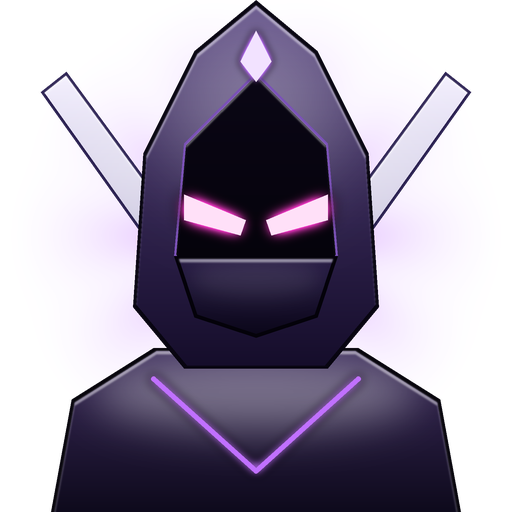
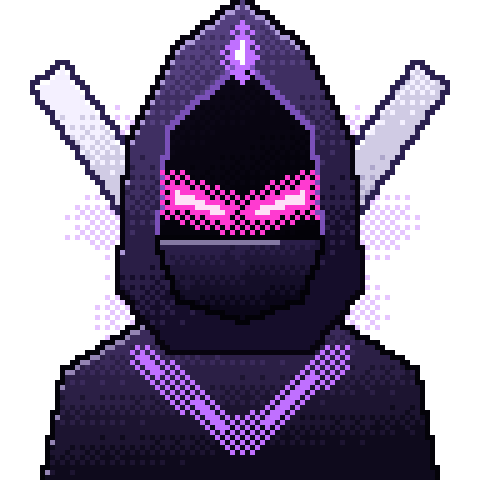
Redraw VS characters as pixel art
Claude-Session: https://claude.ai/code/session_017Aje2AFmWso7fyMwhqMWVA

diff --git a/tools/gen_characters.py b/tools/gen_characters.py
@@ -1,8 +1,8 @@
 #!/usr/bin/env python3
-"""Draws the six VS-mode characters (busts), small portraits and skill icons into assets/chars/.
+"""Draws the six VS-mode characters as 16-bit style pixel art (busts, portraits, skill icons) into assets/chars/.
 
 Run: python3 tools/gen_characters.py   (needs Pillow + numpy; re-run when a design changes).
-Technique: every shape is drawn at 3x on its own layer -> gradient body, dark rim, top bevel, gloss.
+Technique: aliased shapes on a 96px grid, 4-band dithered shading, 1px outline, top highlight, nearest-neighbour 5x.
 """
 import math
 import os
@@ -20,113 +20,104 @@ def hex_rgb(h):
     return _hex(h.lstrip("#"))
 
 OUT = os.path.join(ASSETS, "chars")
-SIZE, SS = 512, 3
-S = SIZE * SS
+W, UP = 96, 5  # drawn on a 96px grid, enlarged 5x with nearest neighbour -> 480px pixel art
+BAYER = np.array([[0, 8, 2, 10], [12, 4, 14, 6], [3, 11, 1, 9], [15, 7, 13, 5]]) / 16.0 - 0.5
+YY, XX = np.mgrid[0:W, 0:W]
+BAYER = np.tile(BAYER, (W // 4, W // 4))
+CHECK = ((XX + YY) % 2 == 0)
+BANDS = 4
 
 
 def mir(pts):
     return [(1 - x, y) for x, y in pts]
 
 
+def col(c):
+    return np.array(hex_rgb(c) if isinstance(c, str) else c, np.uint8)
+
+
 class Canvas:
+    """Pixel-art canvas: aliased shapes, banded + dithered shading, 1px dark outline, 1px top highlight."""
+
     def __init__(self):
-        self.img = Image.new("RGBA", (S, S), (0, 0, 0, 0))
+        self.px = np.zeros((W, W, 4), np.uint8)
 
     def _mask(self, shape):
-        m = Image.new("L", (S, S), 0)
+        m = Image.new("L", (W, W), 0)
         d = ImageDraw.Draw(m)
         if shape[0] == "e":
             x0, y0, x1, y1 = shape[1]
-            d.ellipse((x0 * S, y0 * S, x1 * S, y1 * S), fill=255)
+            d.ellipse((x0 * W, y0 * W, x1 * W - 1, y1 * W - 1), fill=255)
         else:
-            d.polygon([(x * S, y * S) for x, y in shape[1]], fill=255)
+            d.polygon([(x * W, y * W) for x, y in shape[1]], fill=255)
         return m
 
-    def shape(self, shape, top, bottom, rim=None, rim_w=3.0, shine=0.35, alpha=1.0):
-        """Gradient-filled shape with dark rim, top bevel line and a soft gloss."""
-        top, bottom = hex_rgb(top) if isinstance(top, str) else top, hex_rgb(bottom) if isinstance(bottom, str) else bottom
+    @staticmethod
+    def _arr(m):
+        return np.array(m) > 127
+
+    def _put(self, mask, rgb, alpha=255):
+        self.px[mask] = (*rgb, alpha)
+
+    def shape(self, shape, top, bottom, rim=None, rim_w=0, shine=0.35, alpha=1.0):
+        t0, t1 = col(top), col(bottom)
         m = self._mask(shape)
-        bb = m.getbbox()
-        if not bb:
+        mk = self._arr(m)
+        if not mk.any():
             return
-        x0, y0, x1, y1 = bb
-        h = max(y1 - y0, 1)
-        t = np.clip((np.arange(S)[:, None] - y0) / h, 0, 1)
-        t = np.broadcast_to(t, (S, S))[..., None]
-        col = np.array(top)[None, None, :] * (1 - t) + np.array(bottom)[None, None, :] * t
-        body = Image.fromarray(col.astype(np.uint8), "RGB").convert("RGBA")
-        rim_c = hex_rgb(rim) if isinstance(rim, str) else (rim or mix(bottom, (0, 0, 0), 0.6))
-        r = int(rim_w * SS)
-        inner = m.filter(ImageFilter.MinFilter(2 * r + 1))
-        layer = Image.new("RGBA", (S, S), rim_c + (255,))
-        layer.paste(body, (0, 0), inner)
-        # top bevel: inner edge lit from above
-        lit = ImageChops.subtract(inner, ImageChops.offset(inner, 0, int(r * 1.2)))
-        lit = lit.filter(ImageFilter.GaussianBlur(SS * 0.8))
-        hi = Image.new("RGBA", (S, S), mix(top, (255, 255, 255), 0.65) + (255,))
-        layer.paste(hi, (0, 0), lit.point(lambda v: int(v * 0.75)))
-        # gloss: blurred white band in the upper part
+        ys, xs = np.nonzero(mk)
+        y0, y1, x0, x1 = ys.min(), ys.max(), xs.min(), xs.max()
+        t = (YY - y0) / max(y1 - y0, 1) * 0.85 + (XX - x0) / max(x1 - x0, 1) * 0.25
+        band = np.clip(np.floor(t * BANDS + BAYER * 0.9), 0, BANDS - 1).astype(int)
+        ramp = np.array([t0 + (t1.astype(int) - t0.astype(int)) * i / (BANDS - 1) for i in range(BANDS)]).astype(np.uint8)
+        outline = self._arr(m.filter(ImageFilter.MaxFilter(3))) & ~mk
+        rim_c = col(rim) if rim is not None else (t1 * 0.35).astype(np.uint8)
+        self._put(outline, rim_c)
+        self.px[mk] = np.concatenate([ramp[band[mk]], np.full((mk.sum(), 1), 255, np.uint8)], axis=1)
         if shine:
-            g = Image.new("L", (S, S), 0)
-            ImageDraw.Draw(g).ellipse((x0 + (x1 - x0) * 0.1, y0 + h * 0.04, x1 - (x1 - x0) * 0.1, y0 + h * 0.5), fill=int(255 * shine))
-            g = g.filter(ImageFilter.GaussianBlur(h * 0.12))
-            g = ImageChops.multiply(g, inner)
-            layer.paste(Image.new("RGBA", (S, S), (255, 255, 255, 255)), (0, 0), g)
-        a = m if alpha >= 1 else m.point(lambda v: int(v * alpha))
-        out = Image.new("RGBA", (S, S), (0, 0, 0, 0))
-        out.paste(layer, (0, 0), a)
-        self.img = Image.alpha_composite(self.img, out)
+            up = np.zeros_like(mk)
+            up[1:] = mk[1:] & ~mk[:-1]
+            hi = np.clip(t0.astype(int) + 90, 0, 255).astype(np.uint8)
+            self._put(up & (XX < x0 + (x1 - x0) * 0.75), hi)
 
     def flat(self, shape, color, alpha=1.0):
-        m = self._mask(shape)
-        if alpha < 1:
-            m = m.point(lambda v: int(v * alpha))
-        c = hex_rgb(color) if isinstance(color, str) else color
-        self.img = Image.alpha_composite(self.img, Image.composite(Image.new("RGBA", (S, S), c + (255,)), Image.new("RGBA", (S, S), (0, 0, 0, 0)), m))
+        self._put(self._arr(self._mask(shape)), col(color))
 
     def glow(self, shape, color, blur=0.02, strength=1.0, core=None):
         m = self._mask(shape)
-        c = hex_rgb(color) if isinstance(color, str) else color
-        g = m.filter(ImageFilter.GaussianBlur(blur * S)).point(lambda v: min(255, int(v * 2 * strength)))
-        self.img = Image.alpha_composite(self.img, Image.composite(Image.new("RGBA", (S, S), c + (255,)), Image.new("RGBA", (S, S), (0, 0, 0, 0)), g))
-        cc = hex_rgb(core) if isinstance(core, str) else (core or mix(c, (255, 255, 255), 0.8))
-        self.flat(shape, cc)
+        mk = self._arr(m)
+        k = max(1, round(blur * W * 1.2))
+        halo = self._arr(m.filter(ImageFilter.MaxFilter(2 * k + 1))) & ~mk & CHECK
+        c = col(color)
+        self._put(halo, c)
+        self._put(mk, c)
+        inner = self._arr(m.filter(ImageFilter.MinFilter(3)))
+        cc = col(core) if core else np.clip(c.astype(int) + 150, 0, 255).astype(np.uint8)
+        self._put(inner if inner.any() else mk, cc)
 
     def line(self, pts, color, w, alpha=1.0, glow=0.0):
-        m = Image.new("L", (S, S), 0)
-        d = ImageDraw.Draw(m)
-        P = [(x * S, y * S) for x, y in pts]
-        d.line(P, fill=255, width=int(w * SS), joint="curve")
-        for x, y in P:
-            d.ellipse((x - w * SS / 2, y - w * SS / 2, x + w * SS / 2, y + w * SS / 2), fill=255)
-        c = hex_rgb(color) if isinstance(color, str) else color
+        m = Image.new("L", (W, W), 0)
+        wp = max(1, round(w * W / 512 * 1.3))
+        ImageDraw.Draw(m).line([(x * W, y * W) for x, y in pts], fill=255, width=wp, joint="curve")
+        mk = self._arr(m)
+        c = col(color)
         if glow:
-            g = m.filter(ImageFilter.GaussianBlur(glow * S)).point(lambda v: min(255, v * 2))
-            self.img = Image.alpha_composite(self.img, Image.composite(Image.new("RGBA", (S, S), c + (255,)), Image.new("RGBA", (S, S), (0, 0, 0, 0)), g))
-        if alpha < 1:
-            m = m.point(lambda v: int(v * alpha))
-        self.img = Image.alpha_composite(self.img, Image.composite(Image.new("RGBA", (S, S), c + (255,)), Image.new("RGBA", (S, S), (0, 0, 0, 0)), m))
+            self._put(self._arr(m.filter(ImageFilter.MaxFilter(5))) & ~mk & CHECK, c)
+        self._put(mk, c)
 
     def aura(self, color, cy=0.46, r=0.5):
-        """Soft radial glow + faint rays behind the figure."""
-        yy, xx = np.mgrid[0:S, 0:S] / S
-        d = np.sqrt((xx - 0.5) ** 2 + (yy - cy) ** 2) / r
-        a = np.clip(1 - d, 0, 1) ** 1.6
-        ang = np.arctan2(yy - cy, xx - 0.5)
-        a = a * (0.75 + 0.25 * np.cos(ang * 10))
-        c = hex_rgb(color) if isinstance(color, str) else color
-        lay = np.zeros((S, S, 4), np.uint8)
+        d = np.sqrt((XX / W - 0.5) ** 2 + (YY / W - cy) ** 2) / r
+        ang = np.arctan2(YY / W - cy, XX / W - 0.5)
+        v = np.clip(1 - d, 0, 1) * (0.8 + 0.2 * np.cos(ang * 10))
+        c = col(color)
+        lay = np.zeros((W, W, 4), np.uint8)
         lay[..., :3] = c
-        lay[..., 3] = (a * 150).astype(np.uint8)
-        self.img = Image.alpha_composite(Image.fromarray(lay, "RGBA"), self.img)
+        lay[..., 3] = np.where(v + BAYER * 0.25 > 0.5, 150, np.where(v + BAYER * 0.25 > 0.22, 80, 0))
+        lay[..., 3] = np.where(lay[..., 3] > 0, np.where(CHECK | (v > 0.5), lay[..., 3], 0), 0)
+        self.px = lay
 
     def done(self):
-        return self.img.resize((SIZE, SIZE), Image.LANCZOS)
-
-
-def body(c, top, bottom, trim):
-    """Shared shoulders + torso block."""
-    c.shape(("p", [(0.08, 1.0), (0.12, 0.8), (0.28, 0.69), (0.72, 0.69), (0.88, 0.8), (0.92, 1.0)]), top, bottom)
+        return Image.fromarray(self.px, "RGBA").resize((W * UP, W * UP), Image.NEAREST)
 
 
 # ------------------------------------------------------------------ characters
@@ -204,7 +195,11 @@ def volt():
     c.shape(("p", [(0.3, 0.68), (0.5, 0.82), (0.7, 0.68), (0.74, 0.76), (0.5, 0.94), (0.26, 0.76)]), "#ffe65a", "#d49a00")
     c.flat(("p", [(0.5, 0.78), (0.42, 0.9), (0.49, 0.9), (0.46, 1.0), (0.58, 0.86), (0.51, 0.86), (0.55, 0.78)]), "#2e1066")
     # fists
-    c.shape(("e", (0.0, 0.7, 0.24, 0.96)), "#ff6a6a", "#a31428"); c.shape(("e", (0.76, 0.7, 1.0, 0.96)), "#ff6a6a", "#a31428")
+    for g in ((0.0, 0.66, 0.26, 0.9), (0.74, 0.66, 1.0, 0.9)):
+        c.shape(("e", g), "#ff6a6a", "#a31428")
+        c.shape(("p", [(g[0] + 0.02, 0.88), (g[2] - 0.02, 0.88), (g[2] - 0.02, 1.0), (g[0] + 0.02, 1.0)]), "#ffe65a", "#d49a00", shine=0)
+        for fx in (0.38, 0.5, 0.62):
+            c.line([(g[0] + (g[2] - g[0]) * fx, 0.7), (g[0] + (g[2] - g[0]) * fx, 0.78)], "#7a0c1c", 5)
     # neck + head
     c.shape(("p", [(0.42, 0.56), (0.58, 0.56), (0.6, 0.72), (0.4, 0.72)]), "#d99a74", "#9a5a3c", shine=0)
     c.shape(("p", [(0.3, 0.3), (0.34, 0.2), (0.5, 0.17), (0.66, 0.2), (0.7, 0.3), (0.68, 0.5), (0.6, 0.62), (0.5, 0.66), (0.4, 0.62), (0.32, 0.5)]), "#ffd0a8", "#c47e58", shine=0.25)
@@ -273,10 +268,11 @@ CHARS = {"bastion": bastion, "blaze": blaze, "frost": frost, "volt": volt, "shad
 # ------------------------------------------------------------------ skill icons (white line art, tinted in Godot)
 
 def skill_icons():
-    ic = Icon()  # wall: three brick rows
-    for i, y in enumerate((0.22, 0.42, 0.62)):
-        ic.rrect(0.14, y, 0.86, y + 0.16, 0.03, fill=False, w=int(ic.S * 0.05))
-        ic.erase_line((0.5 if i % 2 == 0 else 0.32, y), (0.5 if i % 2 == 0 else 0.32, y + 0.16), int(ic.S * 0.06))
+    ic = Icon()  # wall: offset brick rows
+    for y, gaps in ((0.2, (0.5,)), (0.42, (0.33, 0.67)), (0.64, (0.5,))):
+        ic.rrect(0.12, y, 0.88, y + 0.17, 0.02)
+        for g in gaps:
+            ic.erase_line((g, y - 0.01), (g, y + 0.18), int(ic.S * 0.05))
     ic.save("sk_wall")
     ic = Icon()  # fire rain: drops
     for x, y in ((0.28, 0.22), (0.62, 0.3), (0.45, 0.58), (0.78, 0.62), (0.2, 0.7)):
@@ -294,20 +290,22 @@ def skill_icons():
             if (r + q) % 2 == 0:
                 ic.rrect(0.14 + q * 0.24, 0.14 + r * 0.24, 0.14 + q * 0.24 + 0.24, 0.14 + r * 0.24 + 0.24, 0.02)
     ic.save("sk_checker")
-    ic = Icon()  # boulder
-    ic.poly([(0.2, 0.7), (0.16, 0.45), (0.34, 0.2), (0.62, 0.16), (0.84, 0.36), (0.82, 0.68), (0.6, 0.84), (0.36, 0.84)])
-    ic.erase_line((0.4, 0.3), (0.5, 0.5), int(ic.S * 0.04)); ic.erase_line((0.5, 0.5), (0.7, 0.55), int(ic.S * 0.04))
+    ic = Icon()  # boulder: the 3x3 block that falls
+    ic.rrect(0.14, 0.14, 0.86, 0.86, 0.05)
+    for v in (0.38, 0.62):
+        ic.erase_line((v, 0.12), (v, 0.88), int(ic.S * 0.035)); ic.erase_line((0.12, v), (0.88, v), int(ic.S * 0.035))
     ic.save("sk_boulder")
 
 
 def main():
     os.makedirs(OUT, exist_ok=True)
-    sheet = Image.new("RGB", (3 * 400, 2 * 400), (18, 14, 34))
+    cell = W * UP
+    sheet = Image.new("RGB", (3 * cell, 2 * cell), (18, 14, 34))
     for i, (cid, fn) in enumerate(CHARS.items()):
         im = fn()
         im.save(os.path.join(OUT, cid + ".png"))
-        im.crop((64, 0, 448, 384)).resize((128, 128), Image.LANCZOS).save(os.path.join(OUT, cid + "_s.png"))
-        sheet.paste(im.resize((400, 400), Image.LANCZOS), ((i % 3) * 400, (i // 3) * 400), im.resize((400, 400), Image.LANCZOS))
+        im.crop((16 * UP, 0, 80 * UP, 64 * UP)).resize((128, 128), Image.NEAREST).save(os.path.join(OUT, cid + "_s.png"))
+        sheet.paste(im, ((i % 3) * cell, (i // 3) * cell), im)
     sheet.save(os.path.join(os.environ.get("SHEET_DIR", "/tmp"), "chars_sheet.png"))
     skill_icons()
     print("characters written to", OUT)
